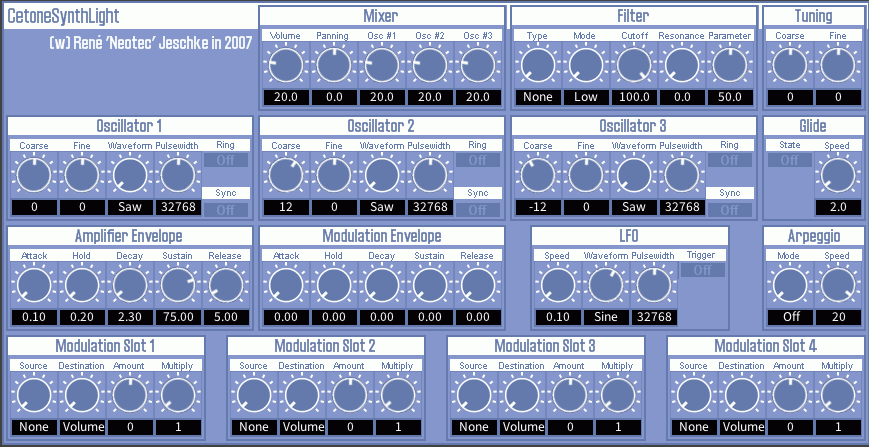
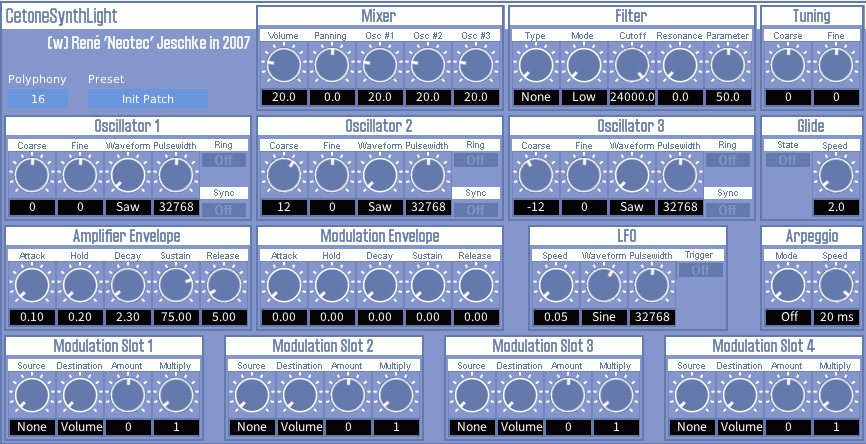
Update README & screenshot

diff --git a/README.md b/README.md
@@ -1,10 +1,12 @@
 # CetoneSynthLight
 
-CetoneSynthLight is a light-weight monophonic synthesizer by Neotec Software. It aims to give you a light but professional synthesizer experience. **Originally written by [René Jeschke](https://github.com/rjeschke).**
+CetoneSynthLight is a light-weight polyphonic synthesizer by Neotec Software. It aims to give you a light but professional synthesizer experience. **Originally written by [René Jeschke](https://github.com/rjeschke).**
 
 Sadly, Cetone Synth series had been discontinued for more than 12 years (since 2012), and it only supported VST 2.4. Original project is [here](https://github.com/rjeschke/cetonesynths).
 
 **But now, I (AnClark) brings it to life again, by re-implementing those plugins to [DISTRHO Plugin Framework](https://distrho.github.io/DPF/).** It now runs well on most modern platforms.
+
+Originally, CetoneSynthLight was a monophonic synth, but I have added polyphony support to it. So now it is a 16-voice polyphonic synthesizer.
 
 ![Screenshot of CetoneSynthLight](Screenshot.png)
 
@@ -20,16 +22,24 @@ Sadly, Cetone Synth series had been discontinued for more than 12 years (since 2
 - **4 modulation slots**
   - Specify source and destination correspondingly
   - Tunable modulation amount and multiply factor
+- **Full polyphony support**
+  - Up to 16 voices
+  - Tunable polyphony voice count
+  - Polyphony can be set to 1 for monophonic mode
 - 1 basic LFO
 - 2 AHDSR envelopes
   - Amplifier AHDSR
   - Modulation AHDSR
 - Glide (portamento) support
 - Simple arpeggiator
+  - Supports polyphonic arpeggiation (optional)
 - **Cross-platform**
   - Supports: Windows, macOS, Linux
 - **Multi-format**
-  - Provides: VST 2.4, VST3, LV2, CLAP, Standalone (JACK only)
+  - Provides: VST 2.4, VST3, LV2, CLAP, Standalone ([JACK](https://jackaudio.org/) only)
+- **Preset manager**
+  - Save and load presets in JSON format
+  - Preset manager menu with bank and program support
 
 ## How To Build
 
@@ -73,10 +83,10 @@ pacman -S git
 
 ```bash
 # Source tree has 1 submodule: DPF. So you need to add --recursive
-git clone https://github.com/AnClark/Minaton-XT.git minaton --recursive
+git clone https://github.com/AnClark/CetoneSynthLight.git cetonesynthlight --recursive
 
 # If you forget --recursive, run this
-cd minaton
+cd cetonesynthlight
 git submodule update --init --recursive
 ```
 
